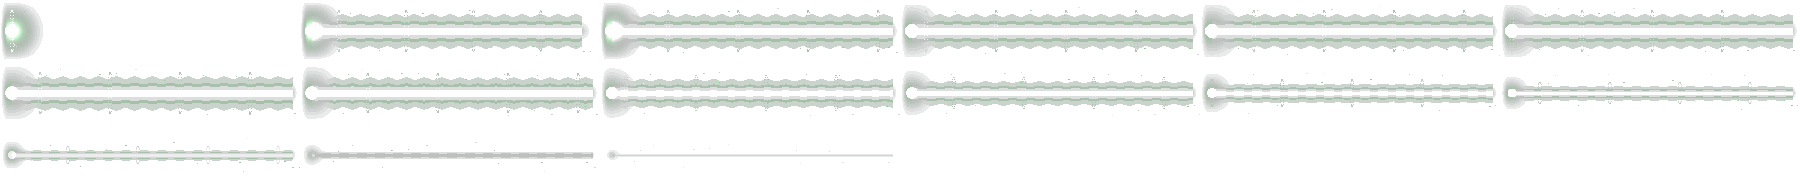
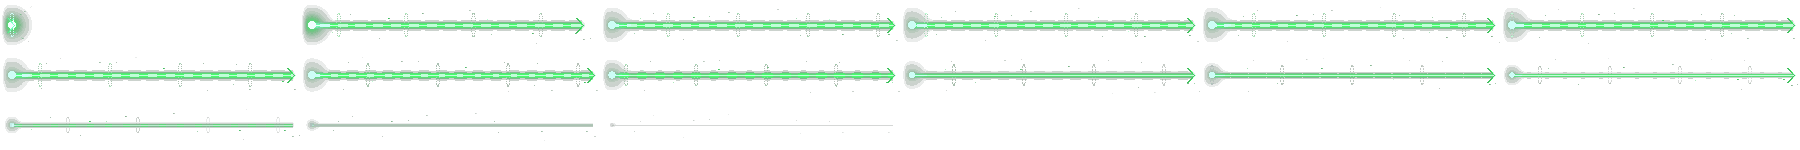
사냥꾼 3단계 레이저: 영상처럼 가늘고 진한 초록, 꺾쇠 화살촉
Claude-Session: https://claude.ai/code/session_01CPuQwRxjahy2BkbhjWZhoU

diff --git a/test/golem.html b/test/golem.html
@@ -391,7 +391,7 @@ const giantImg = new Image(); giantImg.src = "../assets/giant.png";
 // 골렘 이펙트 시트 (pixelfx로 만든 것: fire/golem-meteor, nature/lava-crater, nature/lava-spire → art/golemfx/golemfx_pack.py). px, py = 착지점
 const GFX = {"meteor": {"w": 238, "h": 300, "cols": 8, "n": 64, "fps": 15, "px": 130, "py": 270}, "crater": {"w": 232, "h": 132, "cols": 8, "n": 47, "fps": 15, "px": 116, "py": 104}, "spire": {"w": 176, "h": 114, "cols": 11, "n": 40, "fps": 15, "px": 88, "py": 98}};
 GFX.lance = {"w": 248, "h": 56, "n": 17, "fps": 30, "px": 8, "py": 28, "L": 224};   // pixelfx melee/spectral-comet (전엔 spectral-lance): 세로로 쌓은 프레임, 창 길이 L 을 돌진 거리만큼 늘려 그린다
-Object.assign(GFX, {"harrow":{"w":57,"h":15,"cols":35,"n":12,"fps":30,"px":52,"py":8},"hpow":{"w":139,"h":34,"cols":14,"n":12,"fps":30,"px":128,"py":17},"hrel":{"w":71,"h":63,"cols":28,"n":11,"fps":30,"px":15,"py":32},"hring":{"w":24,"h":24,"cols":85,"n":7,"fps":30,"px":6,"py":12},"hringw":{"w":24,"h":24,"cols":85,"n":7,"fps":30,"px":6,"py":12},"harroww":{"w":57,"h":15,"cols":35,"n":12,"fps":30,"px":52,"py":8},"hchg":{"w":38,"h":40,"cols":53,"n":18,"fps":30,"px":19,"py":20},"hchg3":{"w":44,"h":43,"cols":46,"n":18,"fps":30,"px":19,"py":21},"hlbolt":{"w":104,"h":14,"cols":19,"n":9,"fps":30,"px":96,"py":7},"hlbeam":{"w":300,"h":62,"cols":6,"n":15,"fps":30,"px":12,"py":31}});   // 사냥꾼: 영상 이펙트를 pixelfx로 (화살·흰 화살·빔 화살·쏘는 고리·모으기) (pixelfx projectiles/emerald-*, art/hunterfx/hunterfx_pack.py)
+Object.assign(GFX, {"harrow":{"w":57,"h":15,"cols":35,"n":12,"fps":30,"px":52,"py":8},"hpow":{"w":139,"h":34,"cols":14,"n":12,"fps":30,"px":128,"py":17},"hrel":{"w":71,"h":63,"cols":28,"n":11,"fps":30,"px":15,"py":32},"hring":{"w":24,"h":24,"cols":85,"n":7,"fps":30,"px":6,"py":12},"hringw":{"w":24,"h":24,"cols":85,"n":7,"fps":30,"px":6,"py":12},"harroww":{"w":57,"h":15,"cols":35,"n":12,"fps":30,"px":52,"py":8},"hchg":{"w":38,"h":40,"cols":53,"n":18,"fps":30,"px":19,"py":20},"hchg3":{"w":44,"h":43,"cols":46,"n":18,"fps":30,"px":19,"py":21},"hlbolt":{"w":102,"h":13,"cols":20,"n":9,"fps":30,"px":96,"py":6},"hlbeam":{"w":300,"h":50,"cols":6,"n":15,"fps":30,"px":12,"py":25}});   // 사냥꾼: 영상 이펙트를 pixelfx로 (화살·흰 화살·빔 화살·쏘는 고리·모으기) (pixelfx projectiles/emerald-*, art/hunterfx/hunterfx_pack.py)
 const gfxImg = {}; for (const k in GFX) { gfxImg[k] = new Image(); gfxImg[k].src = `../assets/gfx_${k}.png`; }
 const GFX_METEOR_HIT = 0.8, GFX_SPIRE_UP = 0.2;            // 시트 안에서 운석이 닿는 때, 돌기둥이 솟는 때
 function gfx(key, x, rate = 1) { if (!ready(gfxImg[key])) return false; spawn({ kind: "gfx", key, x, t: 0, rate }); return true; }

diff --git a/test/helm.html b/test/helm.html
@@ -395,7 +395,7 @@ const giantImg = new Image(); giantImg.src = "../assets/giant.png";
 // 골렘 이펙트 시트 (pixelfx로 만든 것: fire/golem-meteor, nature/lava-crater, nature/lava-spire → art/golemfx/golemfx_pack.py). px, py = 착지점
 const GFX = {"meteor": {"w": 238, "h": 300, "cols": 8, "n": 64, "fps": 15, "px": 130, "py": 270}, "crater": {"w": 232, "h": 132, "cols": 8, "n": 47, "fps": 15, "px": 116, "py": 104}, "spire": {"w": 176, "h": 114, "cols": 11, "n": 40, "fps": 15, "px": 88, "py": 98}};
 GFX.lance = {"w": 248, "h": 56, "n": 17, "fps": 30, "px": 8, "py": 28, "L": 224};   // pixelfx melee/spectral-comet (전엔 spectral-lance): 세로로 쌓은 프레임, 창 길이 L 을 돌진 거리만큼 늘려 그린다
-Object.assign(GFX, {"harrow":{"w":57,"h":15,"cols":35,"n":12,"fps":30,"px":52,"py":8},"hpow":{"w":139,"h":34,"cols":14,"n":12,"fps":30,"px":128,"py":17},"hrel":{"w":71,"h":63,"cols":28,"n":11,"fps":30,"px":15,"py":32},"hring":{"w":24,"h":24,"cols":85,"n":7,"fps":30,"px":6,"py":12},"hringw":{"w":24,"h":24,"cols":85,"n":7,"fps":30,"px":6,"py":12},"harroww":{"w":57,"h":15,"cols":35,"n":12,"fps":30,"px":52,"py":8},"hchg":{"w":38,"h":40,"cols":53,"n":18,"fps":30,"px":19,"py":20},"hchg3":{"w":44,"h":43,"cols":46,"n":18,"fps":30,"px":19,"py":21},"hlbolt":{"w":104,"h":14,"cols":19,"n":9,"fps":30,"px":96,"py":7},"hlbeam":{"w":300,"h":62,"cols":6,"n":15,"fps":30,"px":12,"py":31}});   // 사냥꾼: 영상 이펙트를 pixelfx로 (화살·흰 화살·빔 화살·쏘는 고리·모으기) (pixelfx projectiles/emerald-*, art/hunterfx/hunterfx_pack.py)
+Object.assign(GFX, {"harrow":{"w":57,"h":15,"cols":35,"n":12,"fps":30,"px":52,"py":8},"hpow":{"w":139,"h":34,"cols":14,"n":12,"fps":30,"px":128,"py":17},"hrel":{"w":71,"h":63,"cols":28,"n":11,"fps":30,"px":15,"py":32},"hring":{"w":24,"h":24,"cols":85,"n":7,"fps":30,"px":6,"py":12},"hringw":{"w":24,"h":24,"cols":85,"n":7,"fps":30,"px":6,"py":12},"harroww":{"w":57,"h":15,"cols":35,"n":12,"fps":30,"px":52,"py":8},"hchg":{"w":38,"h":40,"cols":53,"n":18,"fps":30,"px":19,"py":20},"hchg3":{"w":44,"h":43,"cols":46,"n":18,"fps":30,"px":19,"py":21},"hlbolt":{"w":102,"h":13,"cols":20,"n":9,"fps":30,"px":96,"py":6},"hlbeam":{"w":300,"h":50,"cols":6,"n":15,"fps":30,"px":12,"py":25}});   // 사냥꾼: 영상 이펙트를 pixelfx로 (화살·흰 화살·빔 화살·쏘는 고리·모으기) (pixelfx projectiles/emerald-*, art/hunterfx/hunterfx_pack.py)
 const gfxImg = {}; for (const k in GFX) { gfxImg[k] = new Image(); gfxImg[k].src = `../assets/gfx_${k}.png`; }
 const GFX_METEOR_HIT = 0.8, GFX_SPIRE_UP = 0.2;            // 시트 안에서 운석이 닿는 때, 돌기둥이 솟는 때
 function gfx(key, x, rate = 1) { if (!ready(gfxImg[key])) return false; spawn({ kind: "gfx", key, x, t: 0, rate }); return true; }

diff --git a/test/sword.html b/test/sword.html
@@ -391,7 +391,7 @@ const giantImg = new Image(); giantImg.src = "../assets/giant.png";
 // 골렘 이펙트 시트 (pixelfx로 만든 것: fire/golem-meteor, nature/lava-crater, nature/lava-spire → art/golemfx/golemfx_pack.py). px, py = 착지점
 const GFX = {"meteor": {"w": 238, "h": 300, "cols": 8, "n": 64, "fps": 15, "px": 130, "py": 270}, "crater": {"w": 232, "h": 132, "cols": 8, "n": 47, "fps": 15, "px": 116, "py": 104}, "spire": {"w": 176, "h": 114, "cols": 11, "n": 40, "fps": 15, "px": 88, "py": 98}};
 GFX.lance = {"w": 248, "h": 56, "n": 17, "fps": 30, "px": 8, "py": 28, "L": 224};   // pixelfx melee/spectral-comet (전엔 spectral-lance): 세로로 쌓은 프레임, 창 길이 L 을 돌진 거리만큼 늘려 그린다
-Object.assign(GFX, {"harrow":{"w":57,"h":15,"cols":35,"n":12,"fps":30,"px":52,"py":8},"hpow":{"w":139,"h":34,"cols":14,"n":12,"fps":30,"px":128,"py":17},"hrel":{"w":71,"h":63,"cols":28,"n":11,"fps":30,"px":15,"py":32},"hring":{"w":24,"h":24,"cols":85,"n":7,"fps":30,"px":6,"py":12},"hringw":{"w":24,"h":24,"cols":85,"n":7,"fps":30,"px":6,"py":12},"harroww":{"w":57,"h":15,"cols":35,"n":12,"fps":30,"px":52,"py":8},"hchg":{"w":38,"h":40,"cols":53,"n":18,"fps":30,"px":19,"py":20},"hchg3":{"w":44,"h":43,"cols":46,"n":18,"fps":30,"px":19,"py":21},"hlbolt":{"w":104,"h":14,"cols":19,"n":9,"fps":30,"px":96,"py":7},"hlbeam":{"w":300,"h":62,"cols":6,"n":15,"fps":30,"px":12,"py":31}});   // 사냥꾼: 영상 이펙트를 pixelfx로 (화살·흰 화살·빔 화살·쏘는 고리·모으기) (pixelfx projectiles/emerald-*, art/hunterfx/hunterfx_pack.py)
+Object.assign(GFX, {"harrow":{"w":57,"h":15,"cols":35,"n":12,"fps":30,"px":52,"py":8},"hpow":{"w":139,"h":34,"cols":14,"n":12,"fps":30,"px":128,"py":17},"hrel":{"w":71,"h":63,"cols":28,"n":11,"fps":30,"px":15,"py":32},"hring":{"w":24,"h":24,"cols":85,"n":7,"fps":30,"px":6,"py":12},"hringw":{"w":24,"h":24,"cols":85,"n":7,"fps":30,"px":6,"py":12},"harroww":{"w":57,"h":15,"cols":35,"n":12,"fps":30,"px":52,"py":8},"hchg":{"w":38,"h":40,"cols":53,"n":18,"fps":30,"px":19,"py":20},"hchg3":{"w":44,"h":43,"cols":46,"n":18,"fps":30,"px":19,"py":21},"hlbolt":{"w":102,"h":13,"cols":20,"n":9,"fps":30,"px":96,"py":6},"hlbeam":{"w":300,"h":50,"cols":6,"n":15,"fps":30,"px":12,"py":25}});   // 사냥꾼: 영상 이펙트를 pixelfx로 (화살·흰 화살·빔 화살·쏘는 고리·모으기) (pixelfx projectiles/emerald-*, art/hunterfx/hunterfx_pack.py)
 const gfxImg = {}; for (const k in GFX) { gfxImg[k] = new Image(); gfxImg[k].src = `../assets/gfx_${k}.png`; }
 const GFX_METEOR_HIT = 0.8, GFX_SPIRE_UP = 0.2;            // 시트 안에서 운석이 닿는 때, 돌기둥이 솟는 때
 function gfx(key, x, rate = 1) { if (!ready(gfxImg[key])) return false; spawn({ kind: "gfx", key, x, t: 0, rate }); return true; }

diff --git a/index.html b/index.html
@@ -392,7 +392,7 @@ const giantImg = new Image(); giantImg.src = "assets/giant.png";
 // 골렘 이펙트 시트 (pixelfx로 만든 것: fire/golem-meteor, nature/lava-crater, nature/lava-spire → art/golemfx/golemfx_pack.py). px, py = 착지점
 const GFX = {"meteor": {"w": 238, "h": 300, "cols": 8, "n": 64, "fps": 15, "px": 130, "py": 270}, "crater": {"w": 232, "h": 132, "cols": 8, "n": 47, "fps": 15, "px": 116, "py": 104}, "spire": {"w": 176, "h": 114, "cols": 11, "n": 40, "fps": 15, "px": 88, "py": 98}};
 GFX.lance = {"w": 248, "h": 56, "n": 17, "fps": 30, "px": 8, "py": 28, "L": 224};   // pixelfx melee/spectral-comet (전엔 spectral-lance): 세로로 쌓은 프레임, 창 길이 L 을 돌진 거리만큼 늘려 그린다
-Object.assign(GFX, {"harrow":{"w":57,"h":15,"cols":35,"n":12,"fps":30,"px":52,"py":8},"hpow":{"w":139,"h":34,"cols":14,"n":12,"fps":30,"px":128,"py":17},"hrel":{"w":71,"h":63,"cols":28,"n":11,"fps":30,"px":15,"py":32},"hring":{"w":24,"h":24,"cols":85,"n":7,"fps":30,"px":6,"py":12},"hringw":{"w":24,"h":24,"cols":85,"n":7,"fps":30,"px":6,"py":12},"harroww":{"w":57,"h":15,"cols":35,"n":12,"fps":30,"px":52,"py":8},"hchg":{"w":38,"h":40,"cols":53,"n":18,"fps":30,"px":19,"py":20},"hchg3":{"w":44,"h":43,"cols":46,"n":18,"fps":30,"px":19,"py":21},"hlbolt":{"w":104,"h":14,"cols":19,"n":9,"fps":30,"px":96,"py":7},"hlbeam":{"w":300,"h":62,"cols":6,"n":15,"fps":30,"px":12,"py":31}});   // 사냥꾼: 영상 이펙트를 pixelfx로 (화살·흰 화살·빔 화살·쏘는 고리·모으기) (pixelfx projectiles/emerald-*, art/hunterfx/hunterfx_pack.py)
+Object.assign(GFX, {"harrow":{"w":57,"h":15,"cols":35,"n":12,"fps":30,"px":52,"py":8},"hpow":{"w":139,"h":34,"cols":14,"n":12,"fps":30,"px":128,"py":17},"hrel":{"w":71,"h":63,"cols":28,"n":11,"fps":30,"px":15,"py":32},"hring":{"w":24,"h":24,"cols":85,"n":7,"fps":30,"px":6,"py":12},"hringw":{"w":24,"h":24,"cols":85,"n":7,"fps":30,"px":6,"py":12},"harroww":{"w":57,"h":15,"cols":35,"n":12,"fps":30,"px":52,"py":8},"hchg":{"w":38,"h":40,"cols":53,"n":18,"fps":30,"px":19,"py":20},"hchg3":{"w":44,"h":43,"cols":46,"n":18,"fps":30,"px":19,"py":21},"hlbolt":{"w":102,"h":13,"cols":20,"n":9,"fps":30,"px":96,"py":6},"hlbeam":{"w":300,"h":50,"cols":6,"n":15,"fps":30,"px":12,"py":25}});   // 사냥꾼: 영상 이펙트를 pixelfx로 (화살·흰 화살·빔 화살·쏘는 고리·모으기) (pixelfx projectiles/emerald-*, art/hunterfx/hunterfx_pack.py)
 const gfxImg = {}; for (const k in GFX) { gfxImg[k] = new Image(); gfxImg[k].src = `assets/gfx_${k}.png`; }
 const GFX_METEOR_HIT = 0.8, GFX_SPIRE_UP = 0.2;            // 시트 안에서 운석이 닿는 때, 돌기둥이 솟는 때
 function gfx(key, x, rate = 1) { if (!ready(gfxImg[key])) return false; spawn({ kind: "gfx", key, x, t: 0, rate }); return true; }
